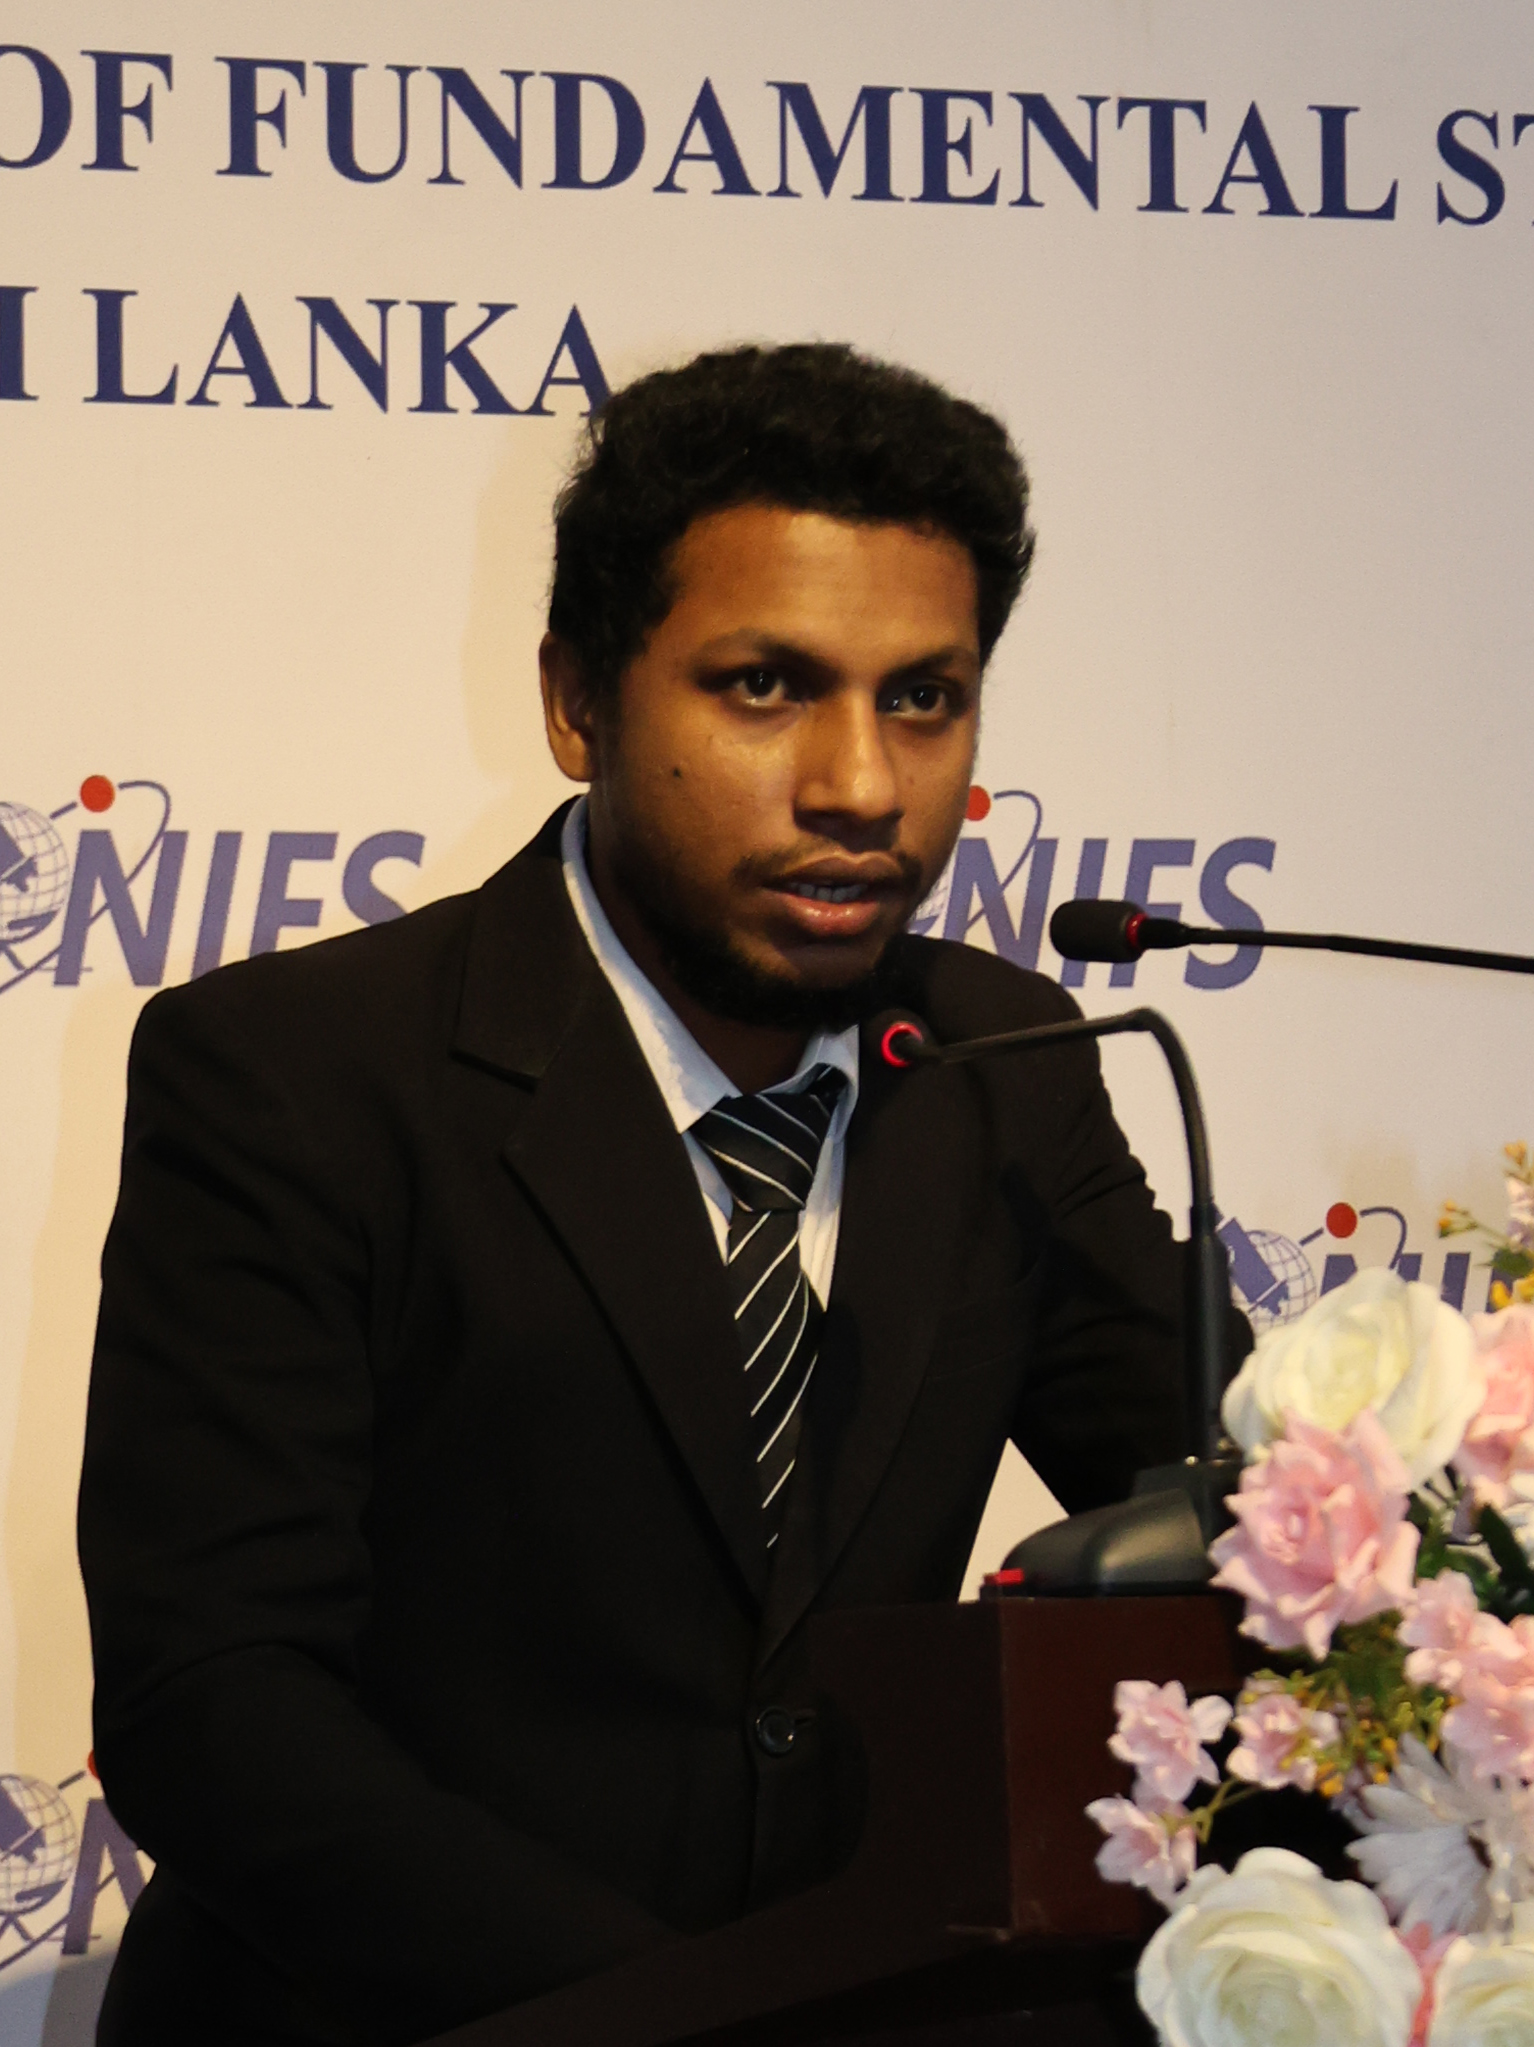
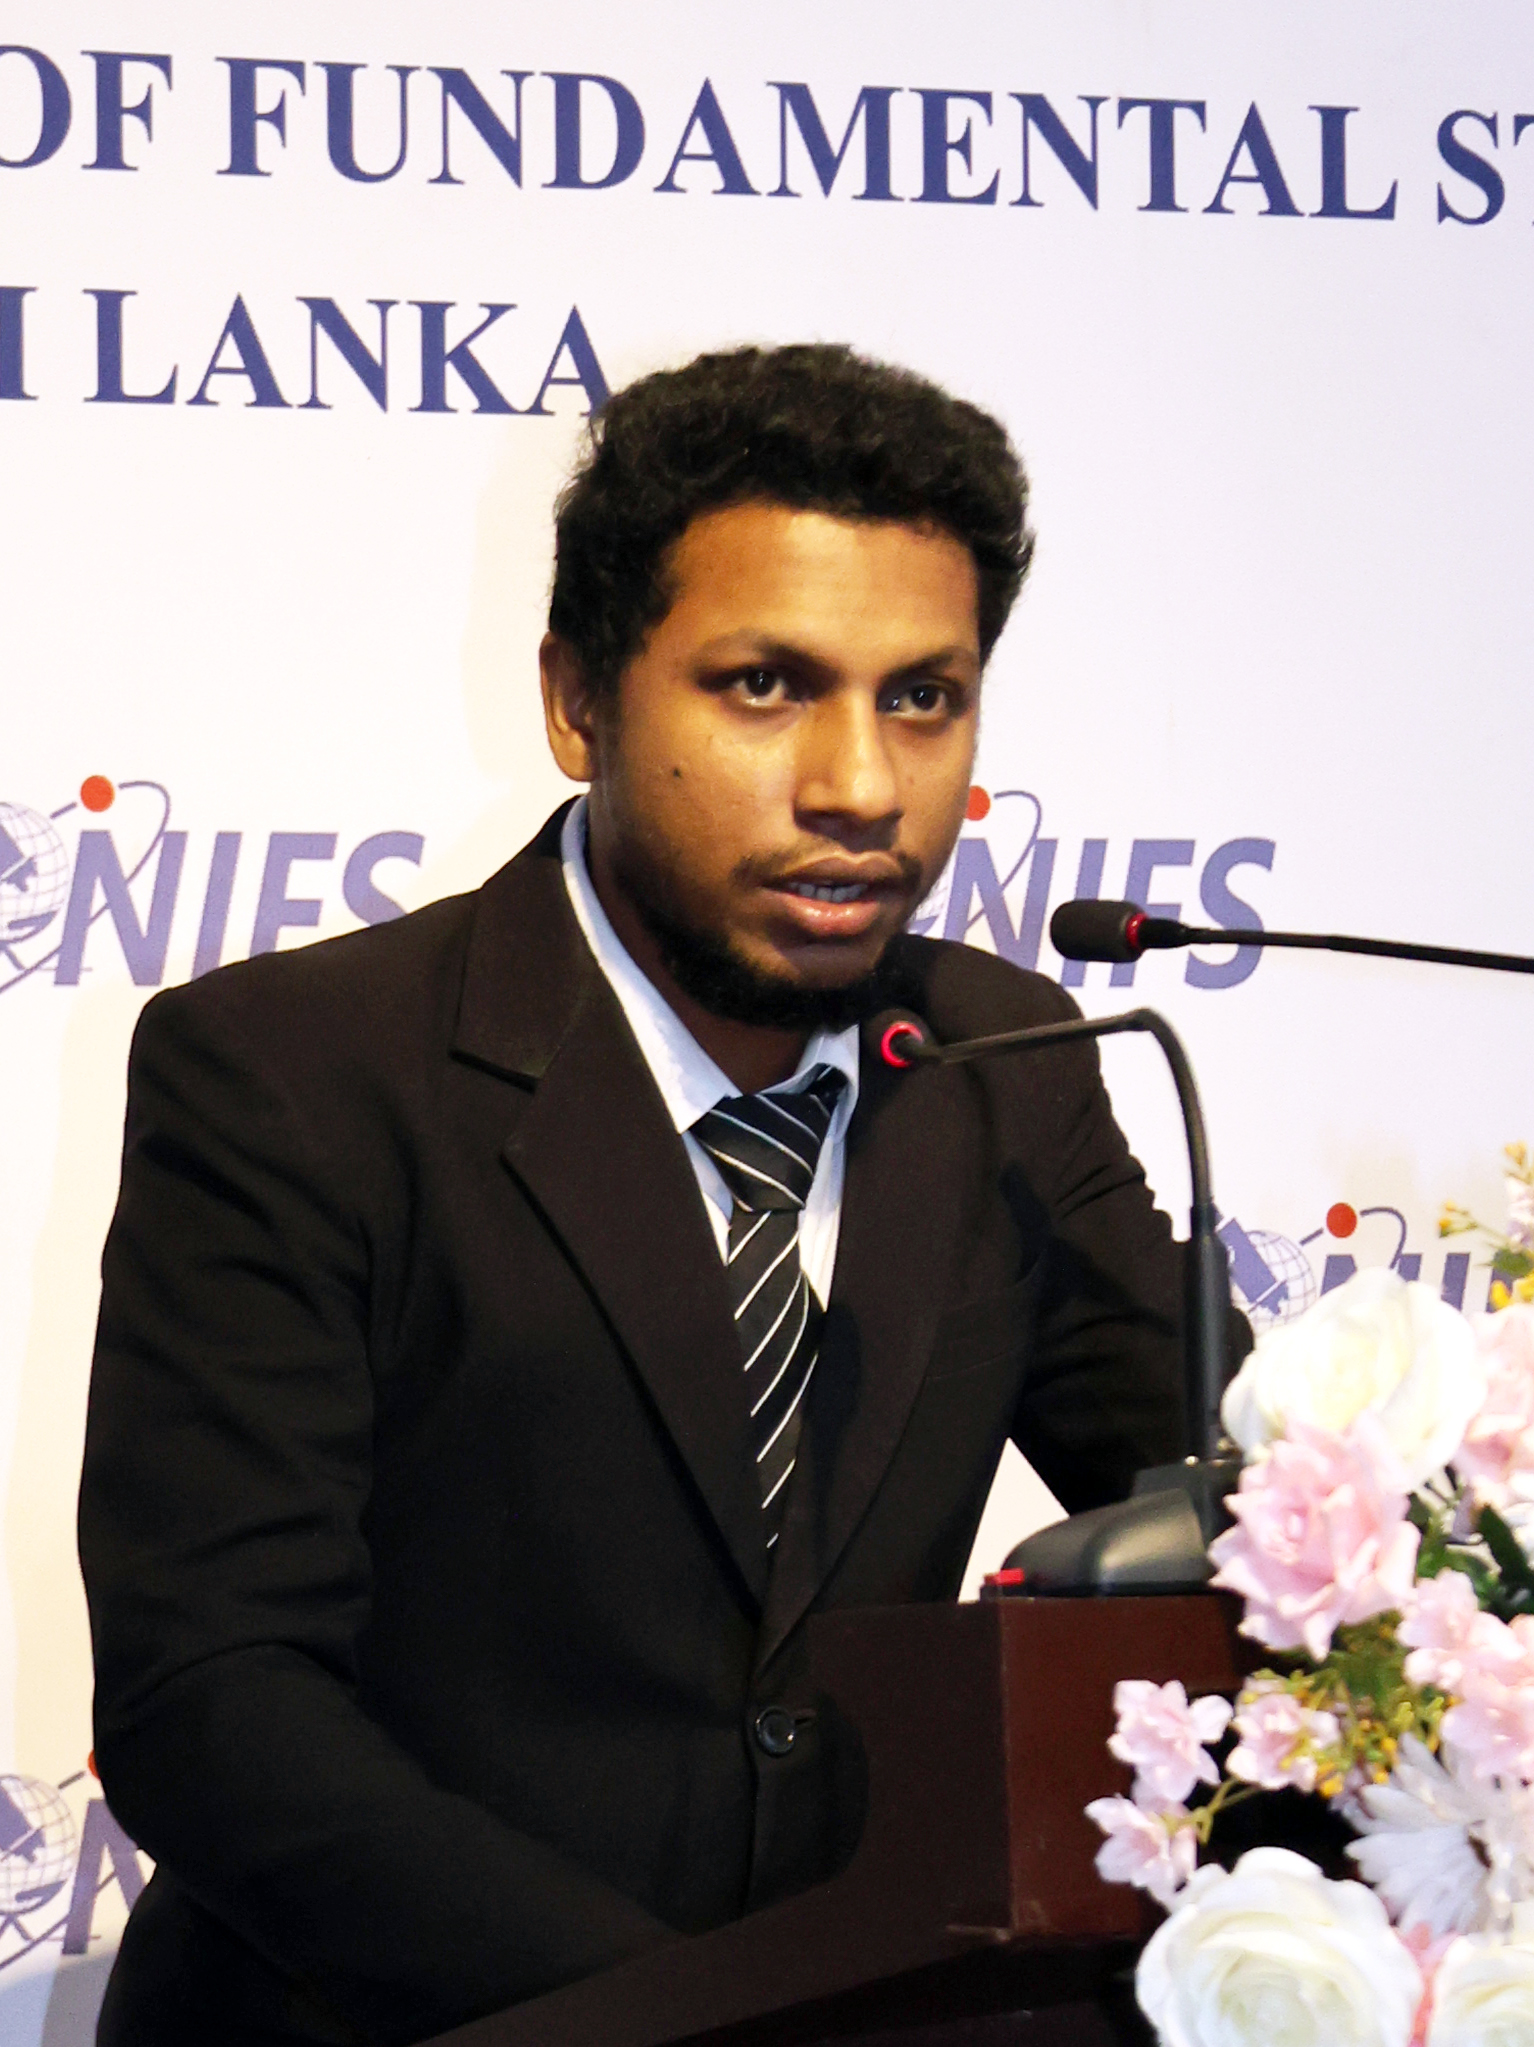
Inital Commit

diff --git a/script.js b/script.js
@@ -1,9 +1,9 @@
 const milestones = [
-    { title: "First Call for Abstracts", date: new Date("May 26, 2025 00:00:00") },
-    { title: "Deadline for Abstract Submission", date: new Date("July 14, 2025 23:59:59") },
-    { title: "Acceptance Notification", date: new Date("September 15, 2025 23:59:59") },
-    { title: "Registrations Open", date: new Date("October 30, 2025 23:59:59") },
-    { title: "Conference Date", date: new Date("November 27, 2025 00:00:00") }
+    { title: "First Call for Abstracts", date: new Date("June 12, 2026 00:00:00") },
+    { title: "Deadline for Abstract Submission", date: new Date("July 12, 2026 23:59:59") },
+    { title: "Acceptance Notification", date: new Date("October 15, 2026 00:00:00") },
+    { title: "Registrations Open", date: new Date("October 30, 2026 00:00:00") },
+    { title: "Conference Date", date: new Date("November 26, 2026 00:00:00") }
   ];
 
   let currentIndex = 0;

diff --git a/index.html b/index.html
@@ -767,11 +767,11 @@
 
             <div class="comittee-box">
               <div class="">
-              <img src="Images/image background_0.jpg" alt="">
+              <img src="Images/dinushi.jpg" alt="">
             </div>
             <p class="name">Miss. Dinushi Chathurangi</p>
             <br>
-            <p>Co-Chair</p>
+            <p>YSCMR Co-Chair</p>
           </div>
 
             <div class="comittee-box">
@@ -781,12 +781,12 @@
 
             <p class="name">Mr. Chanuka Lakshan</p>
             <br>
-            <p>Co-Chair</p>
+            <p>YSCMR Co-Chair</p>
           </div>
 
           <div class="comittee-box">
             <div class="">
-              <img src="Images/image background_0.jpg" alt="">
+              <img src="Images/meanu.jpeg" alt="">
             </div>
 
             <p class="name">Miss. Meanu Hasara</p>